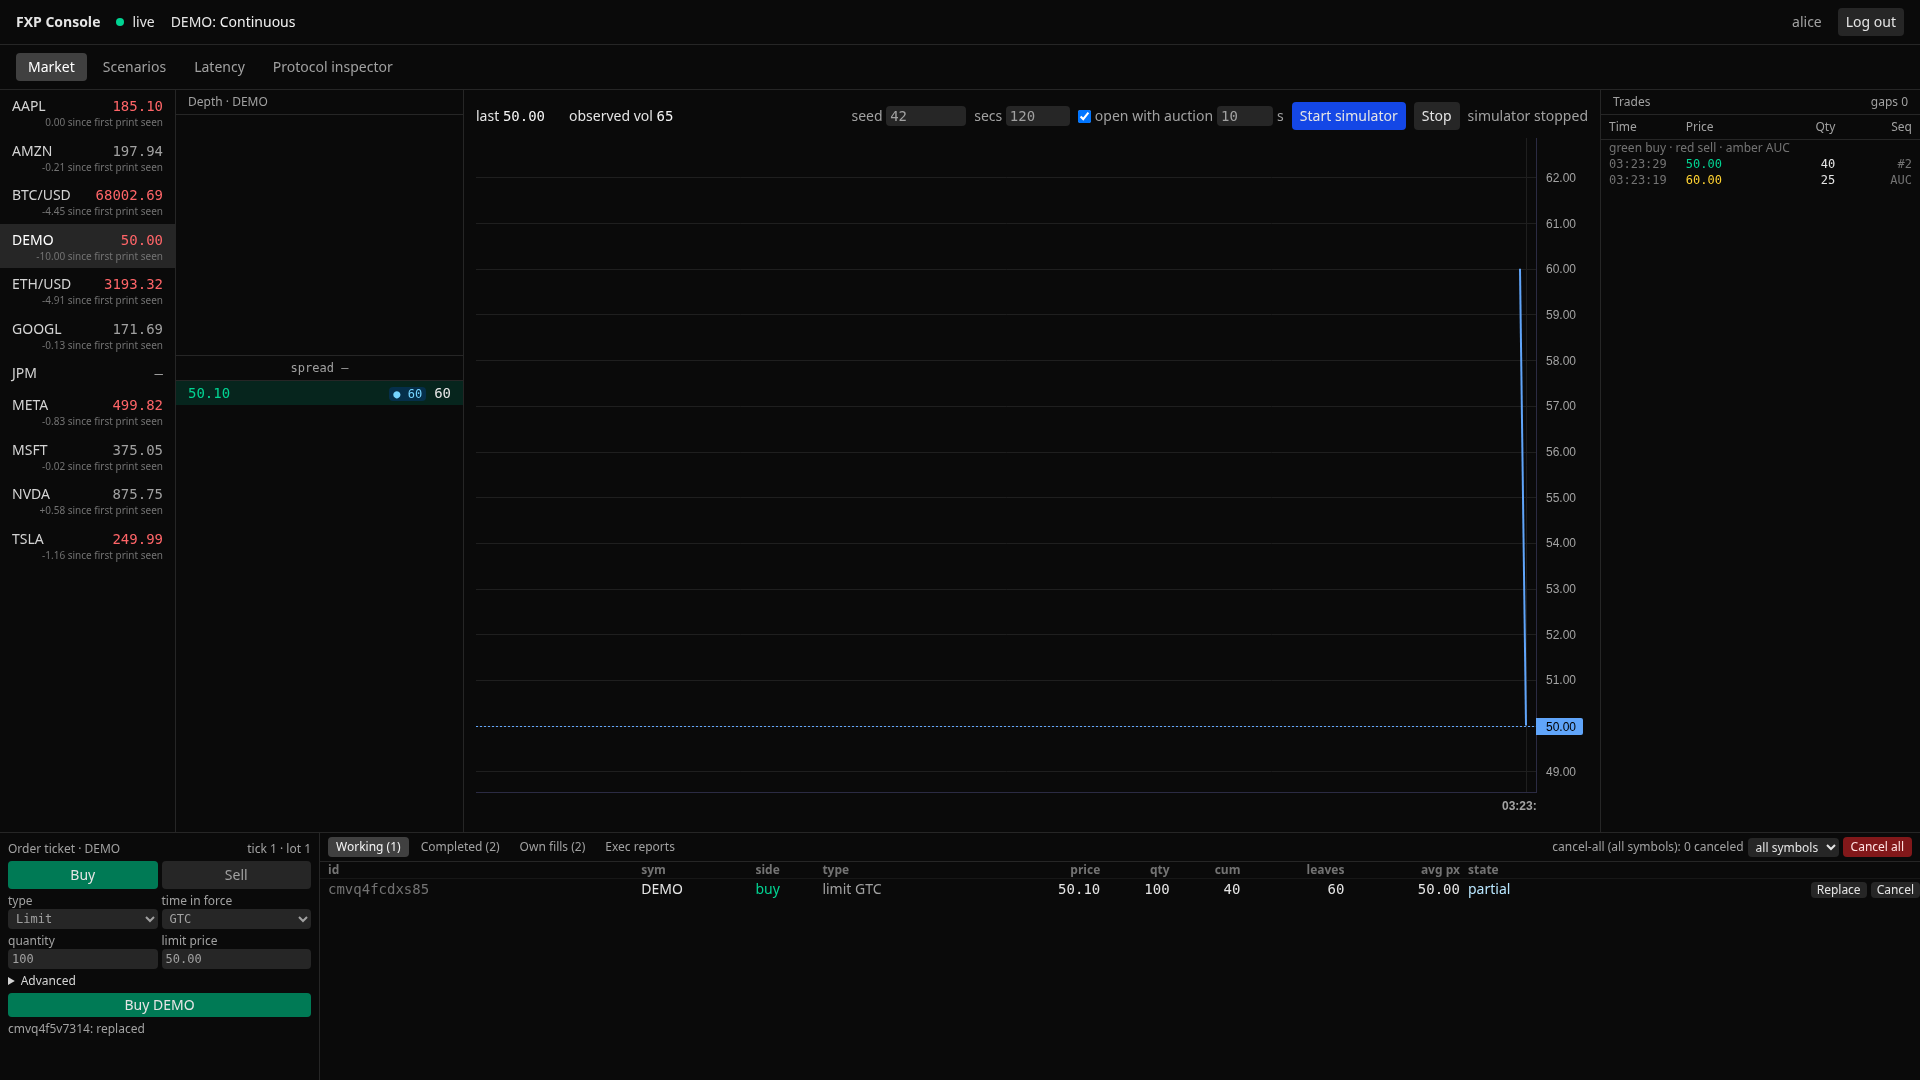
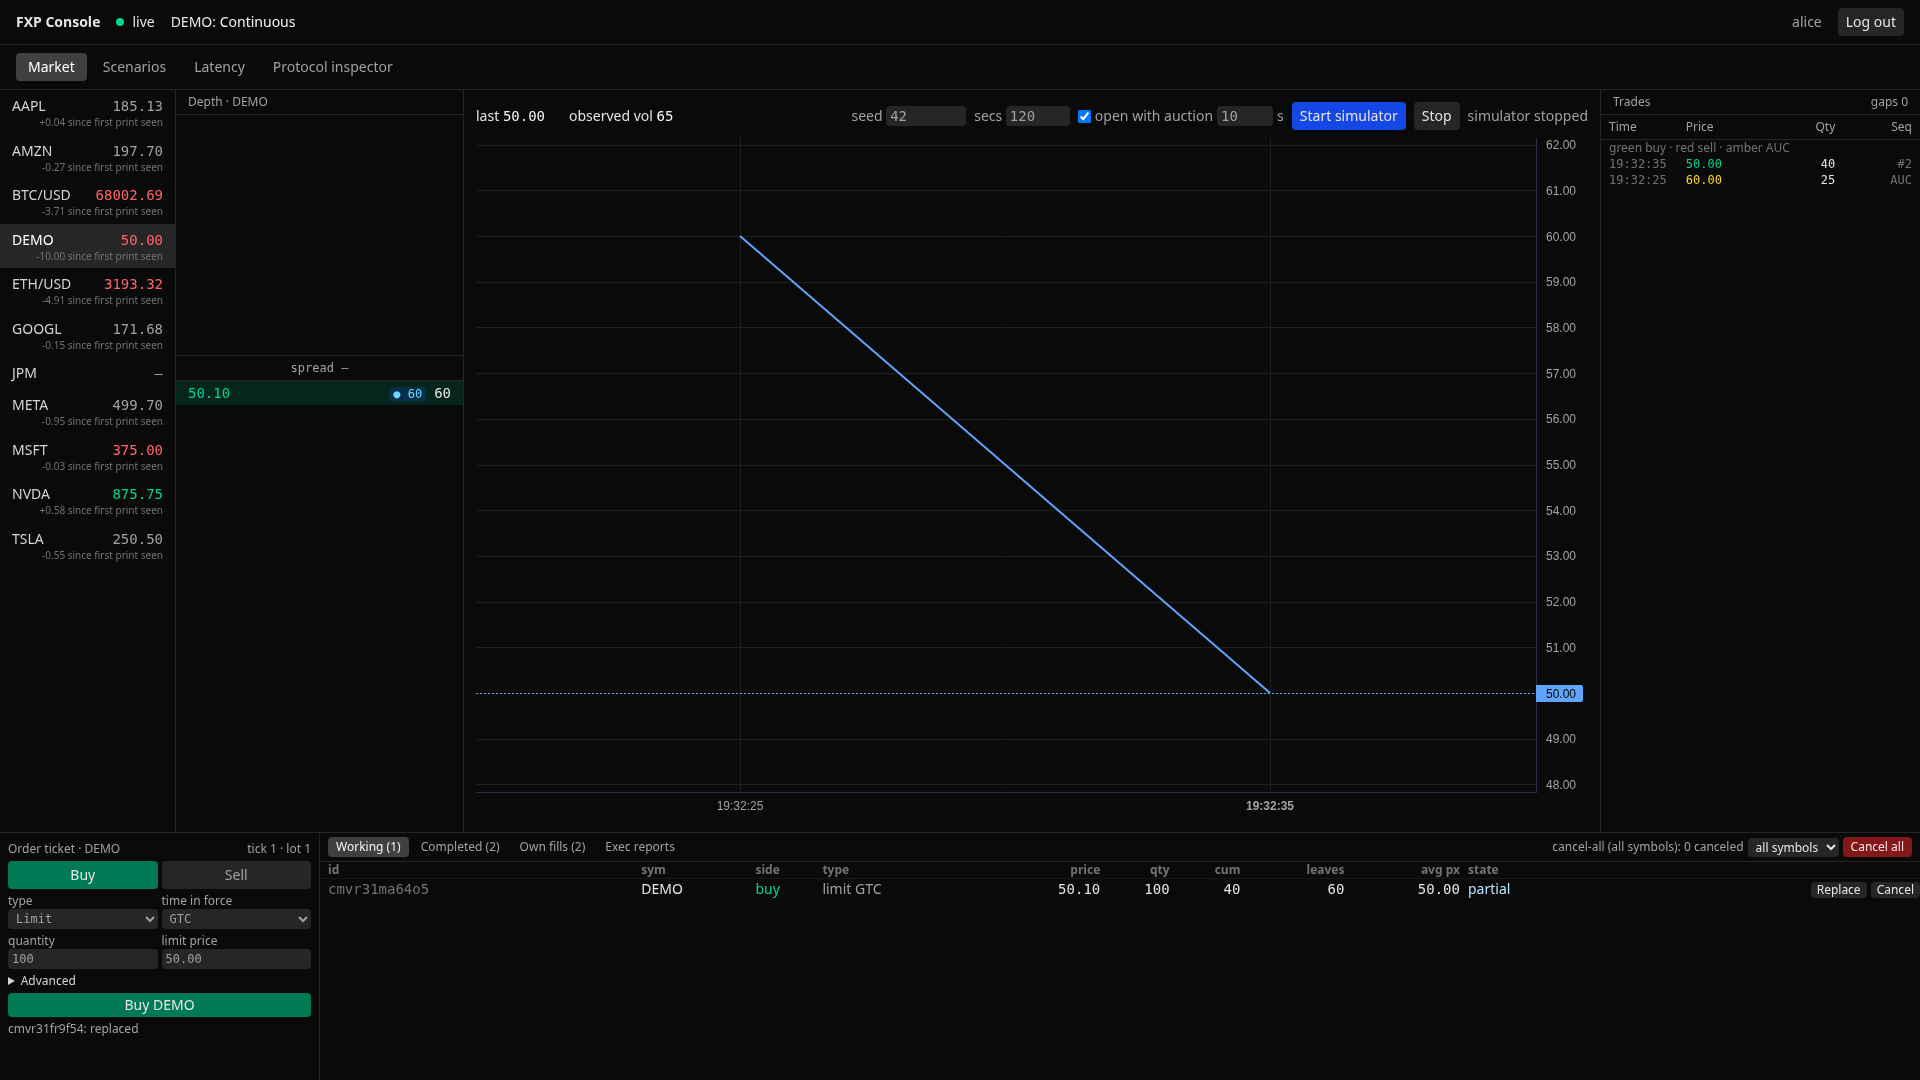
fix(web): fit sparse charts without overriding manual navigation

diff --git a/web/src/components/Chart.tsx b/web/src/components/Chart.tsx
@@ -2,6 +2,7 @@
 import { createChart, LineSeries, type IChartApi, type ISeriesApi, type UTCTimestamp } from "lightweight-charts";
 import { useEffect, useRef } from "react";
 import type { Print } from "../lib/tape";
+import { chartViewport } from "../lib/chart-viewport";
 import { useTape } from "../lib/stores";
 
 /** One point per second (last print wins), oldest first, as lightweight-charts requires. */
@@ -23,14 +24,21 @@ export function Chart({ symbol, scale }: { symbol: string; scale: number }) {
   const el = useRef<HTMLDivElement>(null);
   const chart = useRef<IChartApi>(undefined);
   const series = useRef<ISeriesApi<"Line">>(undefined);
+  const manual = useRef(false);
+  const previousMode = useRef("keep");
+  const previousCount = useRef(0);
   const version = useTape((s) => s.version);
 
   useEffect(() => {
     if (!el.current) return;
+    manual.current = false;
+    previousMode.current = "keep";
+    previousCount.current = 0;
     const c = createChart(el.current, {
       autoSize: true,
       layout: { background: { color: "#0a0a0a" }, textColor: "#a3a3a3" },
       grid: { vertLines: { color: "#1f1f1f" }, horzLines: { color: "#1f1f1f" } },
+      rightPriceScale: { scaleMargins: { top: 0.15, bottom: 0.15 } },
       timeScale: { timeVisible: true, secondsVisible: true },
     });
     chart.current = c;
@@ -44,8 +52,31 @@ export function Chart({ symbol, scale }: { symbol: string; scale: number }) {
 
   useEffect(() => {
     const prints = useTape.getState().tapes.get(symbol)?.prints ?? [];
-    series.current?.setData(chartPoints(prints, scale));
+    const points = chartPoints(prints, scale);
+    const mode = chartViewport(points.length, manual.current);
+    series.current?.setData(points);
+    const time = chart.current?.timeScale();
+    if (mode === "fit" && (previousMode.current !== mode || previousCount.current !== points.length)) time?.fitContent();
+    if (mode === "follow" && previousMode.current !== mode) {
+      time?.applyOptions({ barSpacing: 6, rightOffset: 0 });
+      time?.scrollToPosition(0, false);
+    }
+    previousMode.current = mode;
+    previousCount.current = points.length;
   }, [symbol, scale, version]);
 
-  return <div ref={el} className="min-h-0 flex-1" data-testid="chart" />;
+  const markManual = () => {
+    manual.current = true;
+    chart.current?.timeScale().applyOptions({ shiftVisibleRangeOnNewBar: false });
+  };
+  const empty = !(useTape.getState().tapes.get(symbol)?.prints.length);
+  return (
+    <div className="relative min-h-0 flex-1" data-testid="chart"
+      onPointerDownCapture={markManual}
+      onWheelCapture={markManual}
+      onTouchStartCapture={markManual}>
+      <div ref={el} className="absolute inset-0" />
+      {empty && <div className="pointer-events-none absolute inset-0 flex items-center justify-center text-sm text-neutral-500">No trades yet</div>}
+    </div>
+  );
 }

diff --git a/web/e2e/polish.spec.ts b/web/e2e/polish.spec.ts
@@ -83,6 +83,7 @@ test("Quick demo uses alice, waits for live and shares simulator defaults", asyn
 test("an uninitialized market explains how to get data", async ({ page }) => {
   await page.routeWebSocket(/\/ws$/, () => { /* Deliberately no snapshot or print. */ });
   await page.goto("/"); await page.getByTestId("login-alice").click();
+  await expect(page.getByTestId("chart")).toContainText("No trades yet");
   for (const panel of ["ladder", "tape"]) await expect(page.getByTestId(panel)).toContainText("No market data yet. Start the simulator or use Quick demo.");
 });
 

diff --git a/web/src/lib/chart-viewport.test.ts b/web/src/lib/chart-viewport.test.ts
@@ -1,0 +1,11 @@
+// SPDX-License-Identifier: MIT
+import { expect, it } from "vitest";
+import { chartViewport } from "./chart-viewport";
+it("fits sparse data and follows at the 20-point boundary", () => {
+  expect(chartViewport(0, false)).toBe("keep");
+  for (const n of [1, 2, 19]) expect(chartViewport(n, false)).toBe("fit");
+  for (const n of [20, 21, 200]) expect(chartViewport(n, false)).toBe("follow");
+});
+it("preserves manual navigation regardless of point count", () => {
+  for (const n of [0, 1, 19, 20, 200]) expect(chartViewport(n, true)).toBe("keep");
+});

diff --git a/web/src/lib/chart-viewport.ts b/web/src/lib/chart-viewport.ts
@@ -1,0 +1,5 @@
+// SPDX-License-Identifier: MIT
+export function chartViewport(points: number, userAdjusted: boolean): "keep" | "fit" | "follow" {
+  if (userAdjusted || points === 0) return "keep";
+  return points < 20 ? "fit" : "follow";
+}
